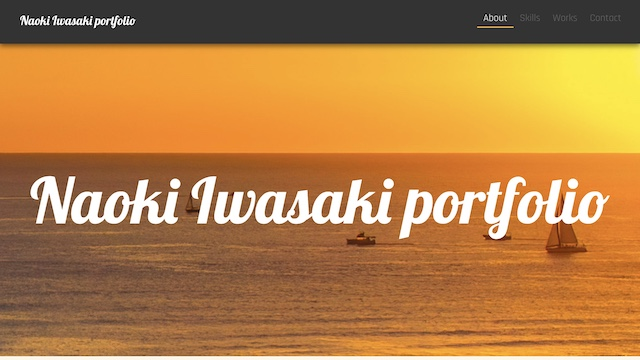
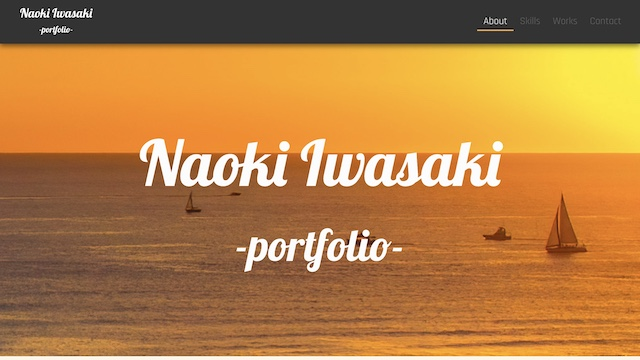
header

diff --git a/css/portfolio.css b/css/portfolio.css
@@ -14,6 +14,7 @@ html{
   font-family: 'M PLUS 1p', sans-serif;
 }
 body{
+  color:#333333;
   font-size: 1.6em;
   margin:0px;
   background-color: #333; 
@@ -36,12 +37,12 @@ h1{
   margin-left: 3.2rem;
 }
 h1 a{text-decoration:none;}
-h1 a:link{color: #fff;}
-h1 a:visited{color: #fff;}
+h1 a:link{color: #fcfcfc;}
+h1 a:visited{color: #fcfcfc;}
 h2{
   font-family: 'Lobster', cursive;
   font-size:10rem;
-  color:#ffffff;
+  color:#fcfcfc;
   text-align:center;
 }
 h3{
@@ -71,18 +72,15 @@ p{
 }
 h3 mark{background:linear-gradient(172deg, transparent 65%, #ffae0f 65%, #ffae0f 100%);}
 h4 mark{background:linear-gradient(transparent 65%, #ffae0f 120%);}
-@media screen and (max-width: 640px) {
+@media screen and (max-width: 768px) {
   html{font-size: 8px;}
   .container-wrap{width: 95%;}
-  h1{
-    font-size: 1rem;
-    margin-left: 1.6rem
-  }
-  h2{font-size: 8rem;}
+  h2{font-size: 9rem;}
   ul{padding-inline-start: 20px;}
 }
 dl, ol, ul {margin-bottom: 0;}
 mark{padding:0;}
+.smaller{font-size: 0.7em;}
 /*--------------------------------
  header
 ---------------------------------*/
@@ -97,7 +95,7 @@ mark{padding:0;}
   justify-content: space-between;
   align-items: center;
   background:#333333;
-  color:#ffffff;
+  color:#fcfcfc;
   text-align: center;
   box-shadow: 0 4px 8px rgba(0,0,0,0.5);
 }
@@ -139,24 +137,24 @@ nav ul{
 }
 #g-nav ul li.current a,
 #g-nav ul li a:hover{
-  color:#ffffff;
+  color:#fcfcfc;
   padding:1.5px 10px 1.5px;
   border-bottom: solid 2px #ffae0f; 
 }
 
 @media screen and (max-width:768px) {
   #g-nav ul li a:hover{color: #666666;}
-  #g-nav ul li.current a {color:#ffffff;}
+  #g-nav ul li.current a {color:#fcfcfc;}
 }
 /*--------------------------------
  footer
 ---------------------------------*/
-footer a:link{color: #fff;}
-footer a:visited{color: #fff;}
+footer a:link{color: #fcfcfc;}
+footer a:visited{color: #fcfcfc;}
 footer{background:#333333;}
 footer nav,
 small{
-  color:#ffffff;
+  color:#fcfcfc;
   display: block;
   text-align: center;
   padding:10px;
@@ -178,7 +176,7 @@ footer ul{padding-inline-start: 0px;}
 footer small nav ul li a{padding-top:0;}
 footer small nav ul li a:hover{padding-top:0;}
 footer small nav{padding:0;}
-footer small li+ li {border-left: 1px solid #fff;}
+footer small li+ li {border-left: 1px solid #fcfcfc;}
 small.notHome{padding-top: 30px;}
 /*--------------------------------
  section
@@ -391,7 +389,7 @@ label{
   transform-origin: 0% 0%;
   width:300px;
 }
-@media screen and (max-width:640px) {
+@media screen and (max-width:768px) {
   #mailForm{width:95%;}
   .recaptcha-box{width: 200px;}
   .g-recaptcha{
@@ -443,7 +441,7 @@ label{
   /*アニメーションの指定*/
   transition: all .2s linear;
 }
-@media screen and (max-width:640px) {.sndbtn::after{top: 17%;}}
+@media screen and (max-width:768px) {.sndbtn::after{top: 17%;}}
 /*hoverした際の移動*/
 .sndbtn:hover::before{right:-30px;}
 .sndbtn:hover::after{right:-25px;}
@@ -505,7 +503,7 @@ label{
   /*アニメーションの指定*/
   transition: all .2s linear;
 }
-@media screen and (max-width:640px) {.rtnbtn::after{top: 18%;}}
+@media screen and (max-width:768px) {.rtnbtn::after{top: 18%;}}
 /*hoverした際の移動*/
 .rtnbtn:hover::before{left:-30px;}
 .rtnbtn:hover::after{left:-25px;}

diff --git a/privacy-policy.html b/privacy-policy.html
@@ -14,7 +14,7 @@
 </head>
 <body>
   <header id="header">
-    <h1><a href="https://ChobbytHub.github.io">Naoki Iwasaki portfolio</a></h1>
+    <h1><a href="https://ChobbytHub.github.io">Naoki Iwasaki<br><span class="smaller">-portfolio-</span></a></h1>
   </header>
   
   <main class="privacy-policy">
@@ -23,7 +23,7 @@
         <div class="container">
           <h3>プライバシーポリシー</h3>
           <p>
-            <span class="Lobster">Naoki Iwasaki portfolio</span>（https://chobbythub.github.io/）（以下「当サイト」とします）のプライバシーポリシー・免責事項を次の通り記載します。
+            <span class="Lobster">Naoki Iwasaki <span class="smaller">-portfolio-</span></span>（https://chobbythub.github.io/）（以下「当サイト」とします）のプライバシーポリシー・免責事項を次の通り記載します。
           </p>
         </div>
       </div>

diff --git a/index.html b/index.html
@@ -15,7 +15,7 @@
 </head>
 <body>
   <header id="header">
-    <h1><a href="https://ChobbytHub.github.io">Naoki Iwasaki portfolio</a></h1>
+    <h1><a href="https://ChobbytHub.github.io">Naoki Iwasaki<br><span class="smaller">-portfolio-</span></a></h1>
     <nav id="g-nav">
       <ul>
         <li><a href="#area-1">About</a></li>
@@ -29,7 +29,7 @@
   <main>
     <div class="header">
       <section class="header-img">
-        <h2 class="box">Naoki Iwasaki portfolio</h2>
+        <h2 class="box">Naoki Iwasaki<br><span class="smaller">-portfolio-</span></h2>
       </section>
     </div>
     <section class="scroll-point" id="area-1">

diff --git a/thank_you.html b/thank_you.html
@@ -14,7 +14,7 @@
 </head>
 <body>
   <header id="header">
-    <h1><a href="https://ChobbytHub.github.io">Naoki Iwasaki portfolio</a></h1>
+    <h1><a href="https://ChobbytHub.github.io">Naoki Iwasaki<br><span class="smaller">-portfolio-</span></a></h1>
   </header>
   
   <main>
